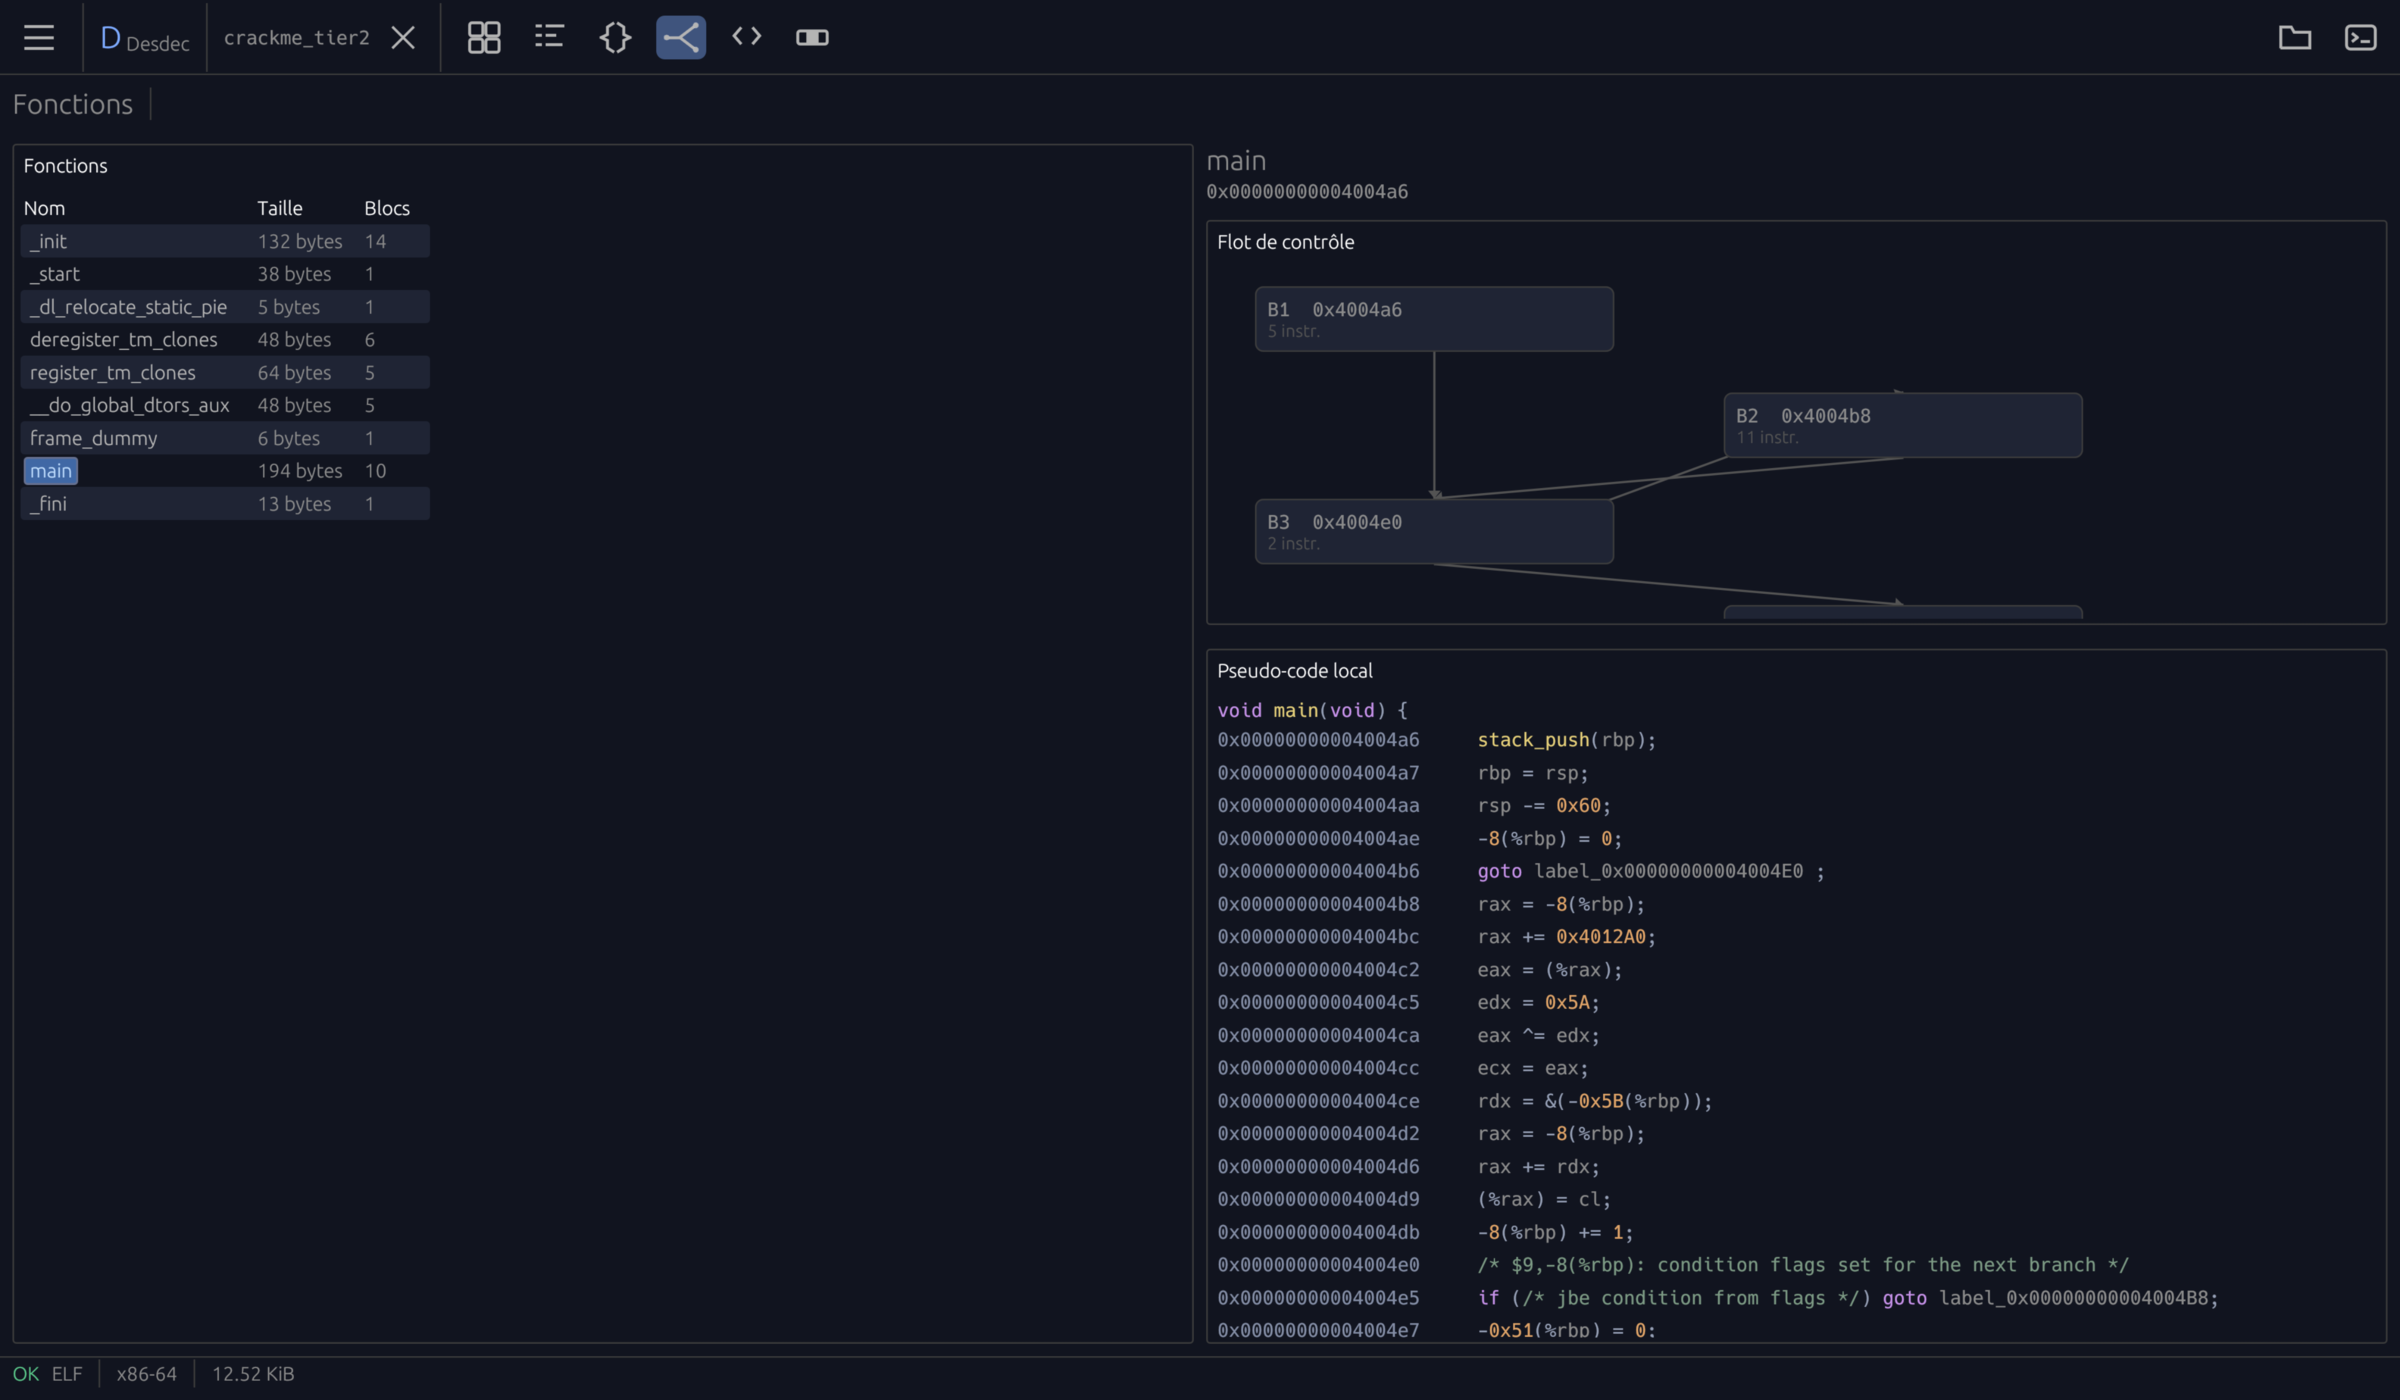
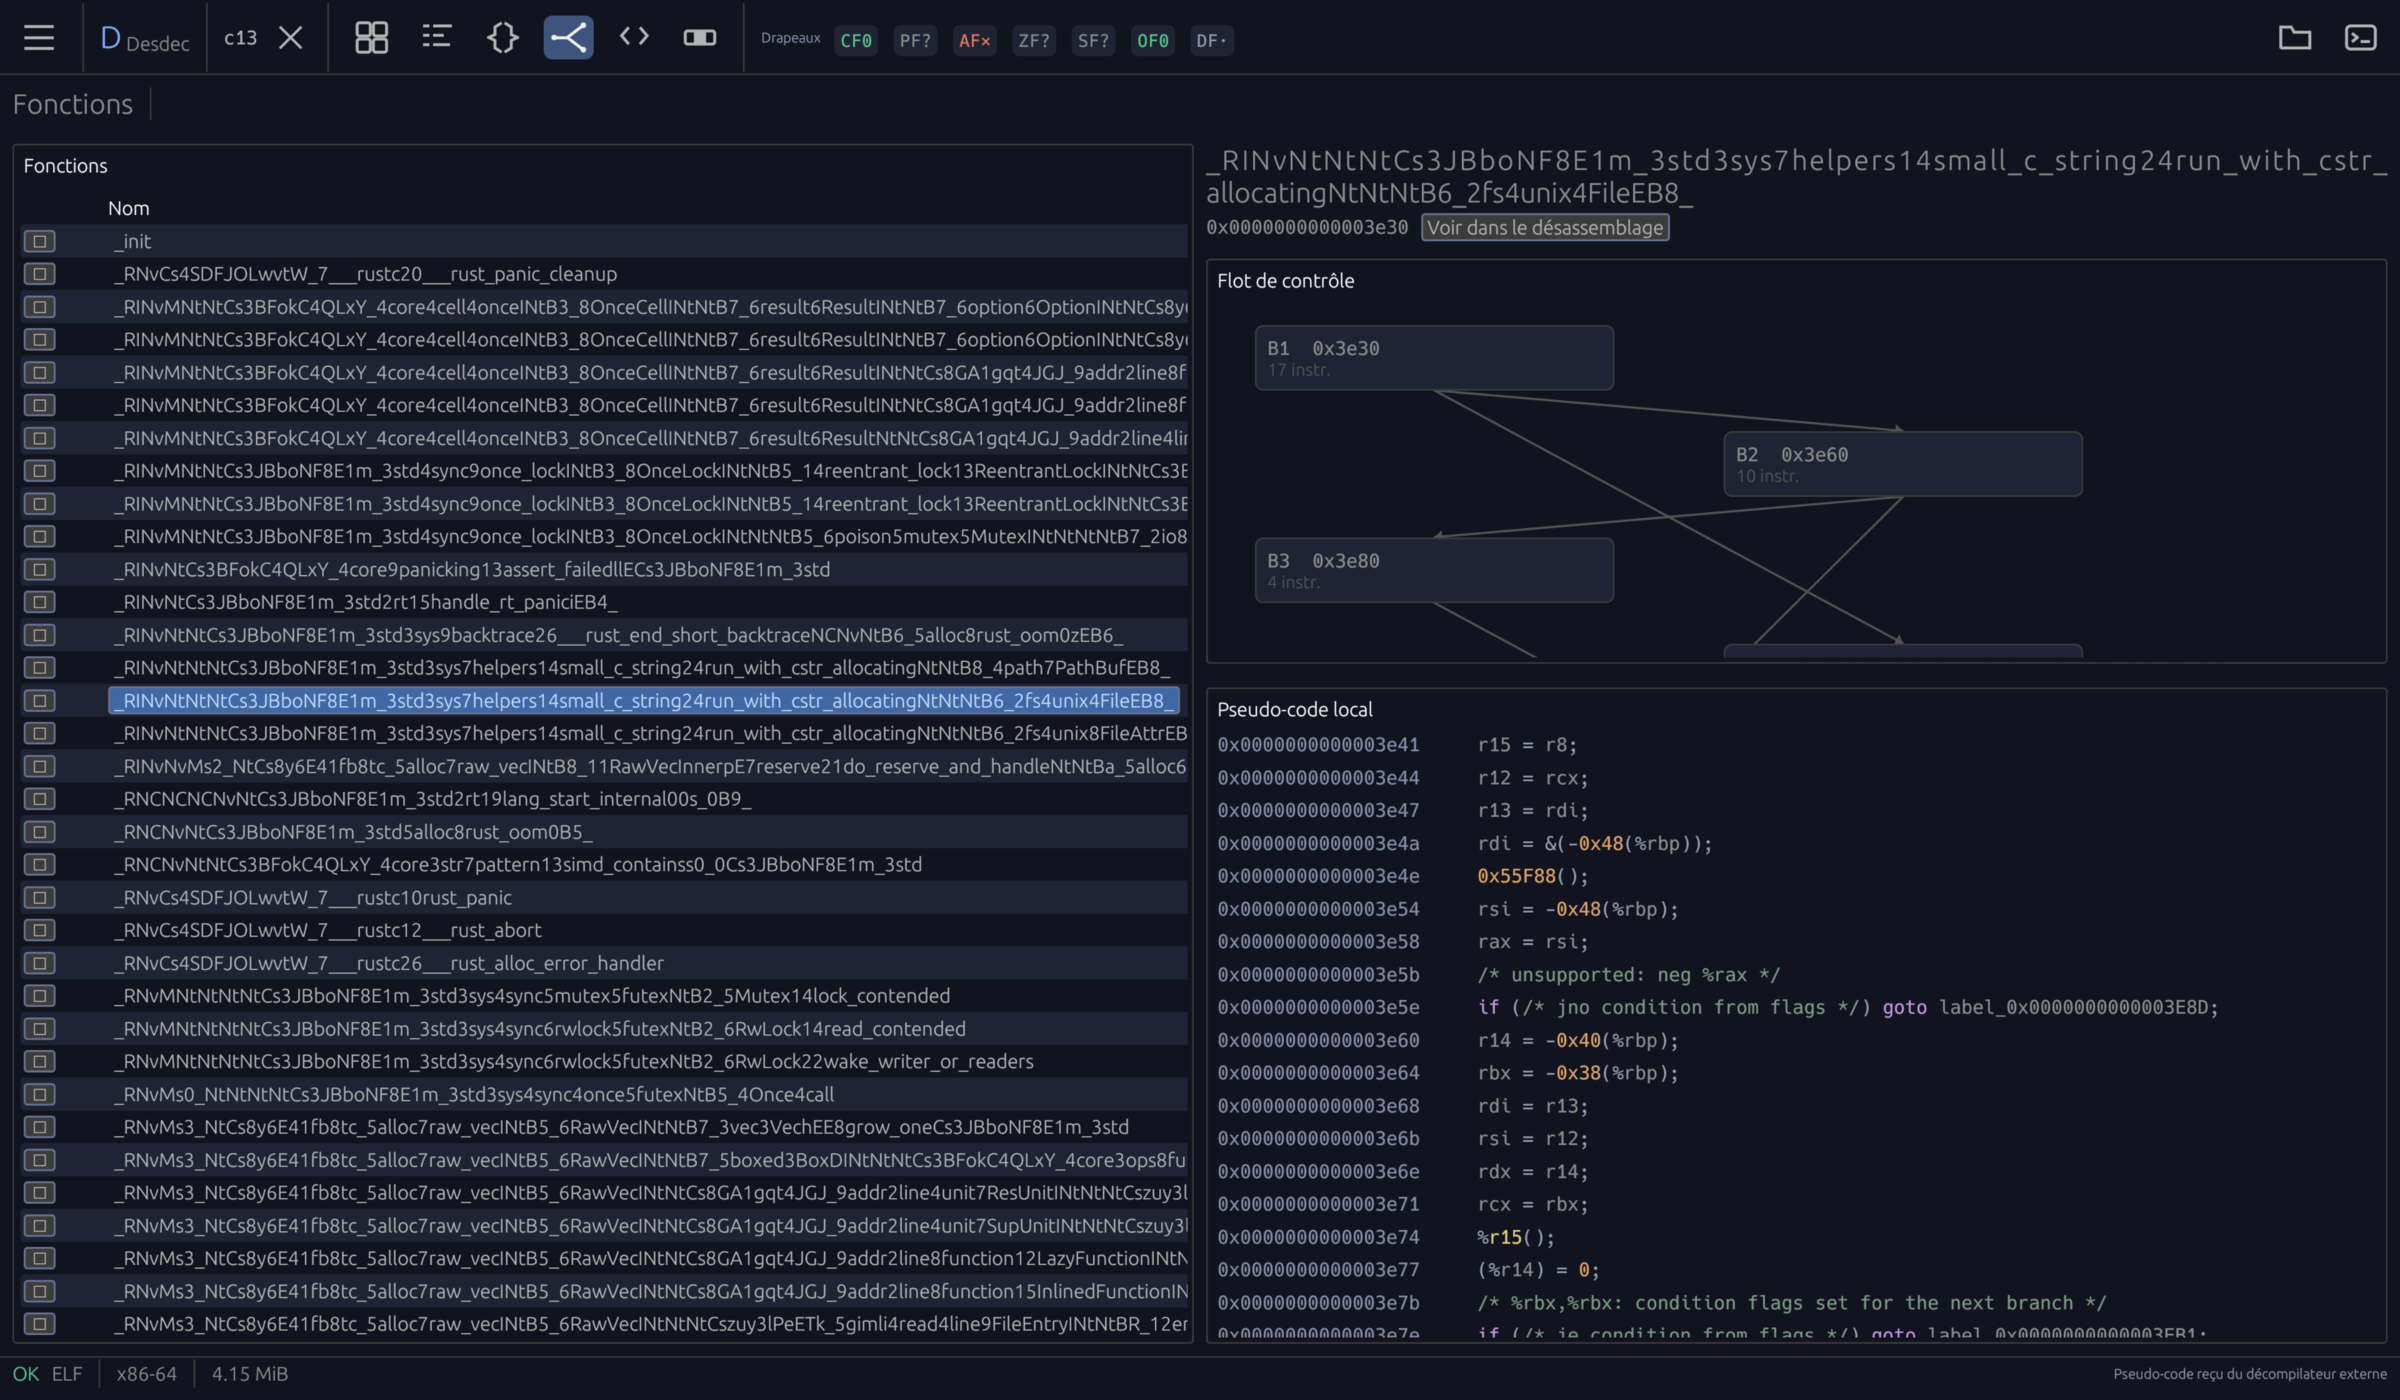
Show the new views in the screenshots the README leads with
Five of the eight screenshots were taken before the flags, the margin
marks and the way from a function to its code existed, so the README
showed a version of the application that no longer matches what it
describes. They are retaken on today's build: the disassembly with the
flags of a `test %rax,%rax` in the bar, the functions table with the
arrow that opens a function's code, the external decompiler, the strings
and the patches. The three that did not change — the empty state, the
palette, the preferences — are left alone.

The prose follows the pictures. The Disassembly row now says what the bar
carries and that a row written about is marked in the margin; the
Functions row says a click opens the code; the patches caption no longer
calls the view empty, since the screenshot shows an edit waiting in it.

The three pointers to the collaboration journal go with it: it left the
repository in the previous commit, and a README that names a file nobody
can open is worse than one that never mentioned it.

Claude-Session: https://claude.ai/code/session_0141tpndoZh35C9JTU2SaGE9

diff --git a/README.es.md b/README.es.md
@@ -17,7 +17,7 @@ dice. Cuando no lo sabe, también lo dice, en lugar de adivinar.
 > Analice y modifique únicamente binarios que le pertenezcan o que esté
 > explícitamente autorizado a estudiar.
 
-![La vista Desensamblado, con el pseudocódigo local al lado](docs/screenshots/disassembly.png)
+![La vista Desensamblado: el listado, las banderas de la instrucción seleccionada en la barra, y el pseudocódigo local al lado](docs/screenshots/disassembly.png)
 
 ## Lo que muestra
 
@@ -25,9 +25,9 @@ dice. Cuando no lo sabe, también lo dice, en lugar de adivinar.
 | --- | --- |
 | **Resumen** | Formato, arquitectura, punto de entrada, SHA-256, entropía, endurecimiento (RELRO, canario, NX, PIE, CFG), lenguaje de origen detectado, y cada biblioteca enlazada —con la explicación de para qué sirve. |
 | **Segmentos** | La tabla de secciones: direcciones, tamaños, permisos y entropía por sección, para que una zona comprimida o cifrada salte a la vista. |
-| **Funciones** | Las funciones con nombre, su cuerpo, sus bloques básicos y un grafo de flujo de control local. |
+| **Funciones** | Las funciones con nombre, su cuerpo, sus bloques básicos y un grafo de flujo de control local. Un clic en una fila abre el código de esa función en el listado. |
 | **Cadenas** | Las cadenas imprimibles con su desplazamiento y su codificación, filtrables, y las instrucciones que las referencian. |
-| **Desensamblado** | Listados x86, x86-64 (iced-x86) y AArch64 (Capstone), con edición de los bytes de una instrucción. Con el botón derecho se explica qué designa el operando y qué escribió por última vez en cada registro nombrado. |
+| **Desensamblado** | Listados x86, x86-64 (iced-x86) y AArch64 (Capstone), con edición de los bytes de una instrucción. Con el botón derecho se explica qué designa el operando y qué escribió por última vez en cada registro nombrado. La barra lleva las banderas de condición de la fila seleccionada —las que establece, las que consulta, y aquellas cuyo valor fijan los bytes pasara lo que pasara antes— y una fila sobre la que usted ha escrito se marca al margen. |
 | **Pseudocódigo** | Una traducción prudente del flujo decodificado, integrada en la herramienta —o la salida de Rizin/rz-ghidra o de RetDec si alguno está instalado y elegido. |
 | **Parches** | Las modificaciones de bytes pendientes, y la exportación que las escribe en una **copia**. El archivo analizado nunca se modifica. |
 | **YARA** | Opcional. Ejecuta un `yara` o `yr` instalado localmente sobre el archivo abierto, con sus propias reglas. Desactivado por defecto. |
@@ -50,6 +50,8 @@ vistas; la barra de acciones sigue disponible, esté el menú abierto o plegado.
 
 **Funciones.** Las funciones con nombre, su tamaño y su número de bloques, el
 grafo de flujo de control local de la seleccionada, y su pseudocódigo debajo.
+La flecha al principio de una fila —o el botón junto a la dirección— abre el
+código de esa función en el listado.
 
 ![La vista Funciones: la lista, un grafo de flujo de control y pseudocódigo](docs/screenshots/functions.png)
 
@@ -67,7 +69,7 @@ desensamblado correspondiente está a un botón.
 **Parches.** Las modificaciones de bytes esperan aquí hasta la exportación, y
 la exportación escribe una copia: el archivo analizado nunca se modifica.
 
-![La vista Parches, vacía, explicando de dónde vienen las modificaciones](docs/screenshots/patches.png)
+![La vista Parches, con un parche pendiente y la exportación que escribe una copia](docs/screenshots/patches.png)
 
 **Paleta de comandos** (`Ctrl+Mayús+P`). Todos los comandos, su atajo y los
 archivos abiertos recientemente, en una sola lista buscable.
@@ -202,8 +204,6 @@ DESDEC_ICON_SHEET=/tmp/icons.svg cargo test -p desdec-app icon_sheet
 - `crates/desdec-app` — la aplicación nativa `egui`.
 - `docs/ARCHITECTURE.md` — el sentido de las dependencias y lo que queda
   deliberadamente fuera del núcleo.
-- `docs/ai-collaboration/WORKLOG.md` — las reglas de trabajo comunes a los
-  colaboradores humanos y a los asistentes de IA.
 
 ## Licencia
 

diff --git a/README.fr.md b/README.fr.md
@@ -18,7 +18,7 @@ deviner.
 > N'analysez et ne modifiez que des binaires qui vous appartiennent ou que vous
 > êtes explicitement autorisé à étudier.
 
-![La vue Désassemblage, avec le pseudo-code local à côté](docs/screenshots/disassembly.png)
+![La vue Désassemblage : le listing, les drapeaux de l'instruction sélectionnée dans la barre, et le pseudo-code local à côté](docs/screenshots/disassembly.png)
 
 ## Ce qu'il montre
 
@@ -26,9 +26,9 @@ deviner.
 | --- | --- |
 | **Aperçu** | Format, architecture, point d'entrée, SHA-256, entropie, durcissement (RELRO, canari, NX, PIE, CFG), langage source détecté, et chaque bibliothèque liée — avec l'explication de ce à quoi elle sert. |
 | **Segments** | La table des sections : adresses, tailles, permissions et entropie par section, pour qu'une zone compressée ou chiffrée saute aux yeux. |
-| **Fonctions** | Les fonctions nommées, leur corps, leurs blocs de base et un graphe de flot de contrôle local. |
+| **Fonctions** | Les fonctions nommées, leur corps, leurs blocs de base et un graphe de flot de contrôle local. Un clic sur une ligne ouvre le code de cette fonction dans le listing. |
 | **Chaînes** | Les chaînes imprimables avec leur décalage et leur encodage, filtrables, et les instructions qui les référencent. |
-| **Désassemblage** | Listings x86, x86-64 (iced-x86) et AArch64 (Capstone), avec édition des octets d'une instruction. Un clic droit explique ce que désigne l'opérande et ce qui a écrit en dernier dans chaque registre nommé. |
+| **Désassemblage** | Listings x86, x86-64 (iced-x86) et AArch64 (Capstone), avec édition des octets d'une instruction. Un clic droit explique ce que désigne l'opérande et ce qui a écrit en dernier dans chaque registre nommé. La barre porte les drapeaux de condition de la ligne sélectionnée — ceux qu'elle établit, ceux qu'elle consulte, et ceux dont les octets fixent la valeur quoi qu'il se soit passé avant — et une ligne sur laquelle vous avez écrit est marquée en marge. |
 | **Pseudo-code** | Une traduction prudente du flot décodé, intégrée à l'outil — ou la sortie de Rizin/rz-ghidra ou de RetDec si l'un d'eux est installé et choisi. |
 | **Correctifs** | Les modifications d'octets en attente, et l'export qui les écrit dans une **copie**. Le fichier analysé n'est jamais modifié. |
 | **YARA** | Optionnel. Lance un `yara` ou `yr` installé localement sur le fichier ouvert, avec vos propres règles. Désactivé par défaut. |
@@ -48,7 +48,8 @@ la barre d'actions reste disponible, que le menu soit ouvert ou replié.
 
 **Fonctions.** Les fonctions nommées avec leur taille et leur nombre de blocs,
 le graphe de flot de contrôle local de celle qui est sélectionnée, et son
-pseudo-code en dessous.
+pseudo-code en dessous. La flèche en tête d'une ligne — ou le bouton à côté de
+l'adresse — ouvre le code de cette fonction dans le listing.
 
 ![La vue Fonctions : la liste, un graphe de flot de contrôle et du pseudo-code](docs/screenshots/functions.png)
 
@@ -67,7 +68,7 @@ et le désassemblage correspondant est à un bouton de là.
 **Correctifs.** Les modifications d'octets attendent ici jusqu'à l'export, et
 l'export écrit une copie : le fichier analysé n'est jamais modifié.
 
-![La vue Correctifs, vide, expliquant d'où viennent les modifications](docs/screenshots/patches.png)
+![La vue Correctifs, avec un correctif en attente et l'export qui écrit une copie](docs/screenshots/patches.png)
 
 **Palette de commandes** (`Ctrl+Maj+P`). Toutes les commandes, leur raccourci
 et les fichiers récemment ouverts, dans une seule liste cherchable.
@@ -205,8 +206,6 @@ DESDEC_ICON_SHEET=/tmp/icons.svg cargo test -p desdec-app icon_sheet
 - `crates/desdec-app` — l'application native `egui`.
 - `docs/ARCHITECTURE.md` — le sens des dépendances et ce qui est délibérément
   hors du cœur.
-- `docs/ai-collaboration/WORKLOG.md` — les règles de travail communes aux
-  contributeurs humains et aux assistants IA.
 
 ## Licence
 

diff --git a/README.md b/README.md
@@ -17,7 +17,7 @@ so. Where it does not know, it says that instead of guessing.
 > Only analyse and modify binaries you own or are explicitly authorised to
 > study.
 
-![The disassembly view, with the local pseudo-code beside it](docs/screenshots/disassembly.png)
+![The disassembly view: the listing, the condition flags of the selected instruction in the bar, and the local pseudo-code beside it](docs/screenshots/disassembly.png)
 
 ## What it shows
 
@@ -25,9 +25,9 @@ so. Where it does not know, it says that instead of guessing.
 | --- | --- |
 | **Overview** | Format, architecture, entry point, SHA-256, entropy, hardening (RELRO, canary, NX, PIE, CFG), detected source language, and every linked library — each with an explanation of what it is for. |
 | **Segments** | The section table: addresses, sizes, permissions and per-section entropy, so a packed or encrypted region stands out. |
-| **Functions** | Named functions with their bodies, basic blocks and a local control-flow graph. |
+| **Functions** | Named functions with their bodies, basic blocks and a local control-flow graph. One click on a row opens that function's code in the listing. |
 | **Strings** | Printable strings with their offsets and encodings, filterable, with the instructions that reference them. |
-| **Disassembly** | x86, x86-64 (iced-x86) and AArch64 (Capstone) listings, with per-instruction byte editing. Right-click an instruction to be told what its operand designates and what last wrote each register it names. |
+| **Disassembly** | x86, x86-64 (iced-x86) and AArch64 (Capstone) listings, with per-instruction byte editing. Right-click an instruction to be told what its operand designates and what last wrote each register it names. The bar carries the condition flags of the selected row — which it settles, which it consults, and which of them the bytes settle to a value known whatever ran before — and a row you have written about is marked in the margin. |
 | **Pseudo-code** | A conservative, built-in translation of the decoded flow — or the output of Rizin/rz-ghidra or RetDec when one is installed and chosen. |
 | **Patches** | Pending byte edits, and the export that writes them to a **copy**. The analysed file is never modified. |
 | **YARA** | Optional. Runs a locally installed `yara` or `yr` against the open file with rules you provide. Off by default. |
@@ -48,7 +48,9 @@ the action bar stays available whether the menu is open or shut.
 ![The empty state, with the navigation menu open](docs/screenshots/start.png)
 
 **Functions.** Named functions with their size and block count, the local
-control-flow graph of the selected one, and its pseudo-code underneath.
+control-flow graph of the selected one, and its pseudo-code underneath. The
+arrow at the head of a row — or the button beside the address — opens that
+function's code in the listing.
 
 ![The Functions view: the function list, a control-flow graph and pseudo-code](docs/screenshots/functions.png)
 
@@ -66,7 +68,7 @@ the matching assembly is one button away.
 **Patches.** Byte edits wait here until you export them, and the export writes
 a copy: the analysed file is never modified.
 
-![The Patches view, empty, saying where edits come from](docs/screenshots/patches.png)
+![The Patches view, with one pending edit and the export that writes a copy](docs/screenshots/patches.png)
 
 **Command palette** (`Ctrl+Shift+P`). Every command, its shortcut, and the
 recently opened files, in one searchable list.
@@ -196,8 +198,6 @@ DESDEC_ICON_SHEET=/tmp/icons.svg cargo test -p desdec-app icon_sheet
 - `crates/desdec-app` — the native `egui` application.
 - `docs/ARCHITECTURE.md` — the dependency direction and what is deliberately
   not in the core.
-- `docs/ai-collaboration/WORKLOG.md` — the working agreements shared by human
-  contributors and AI assistants.
 
 ## Licence
 
